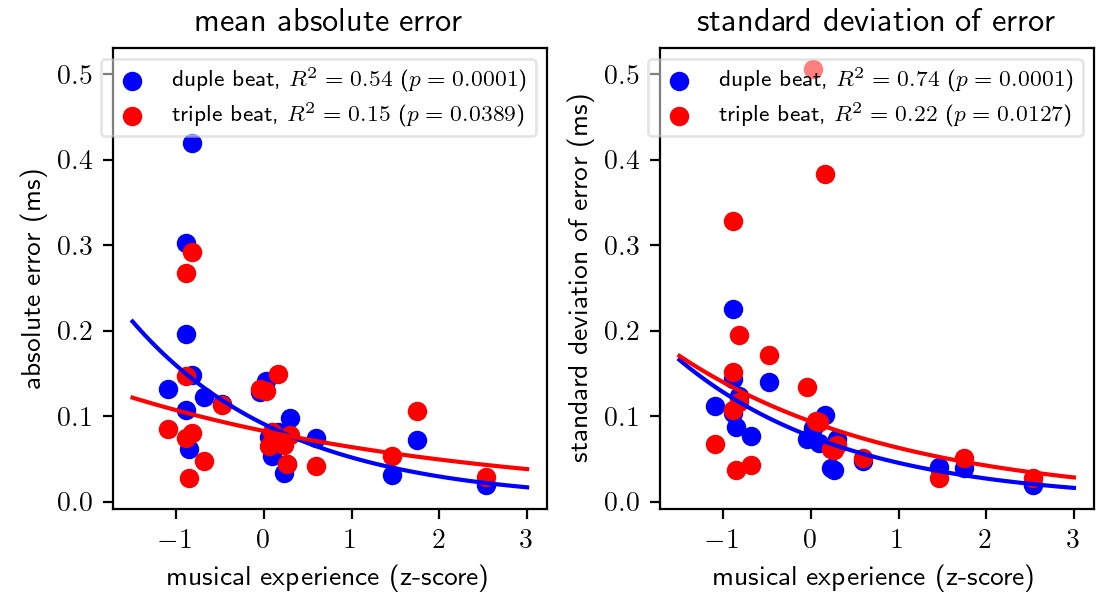
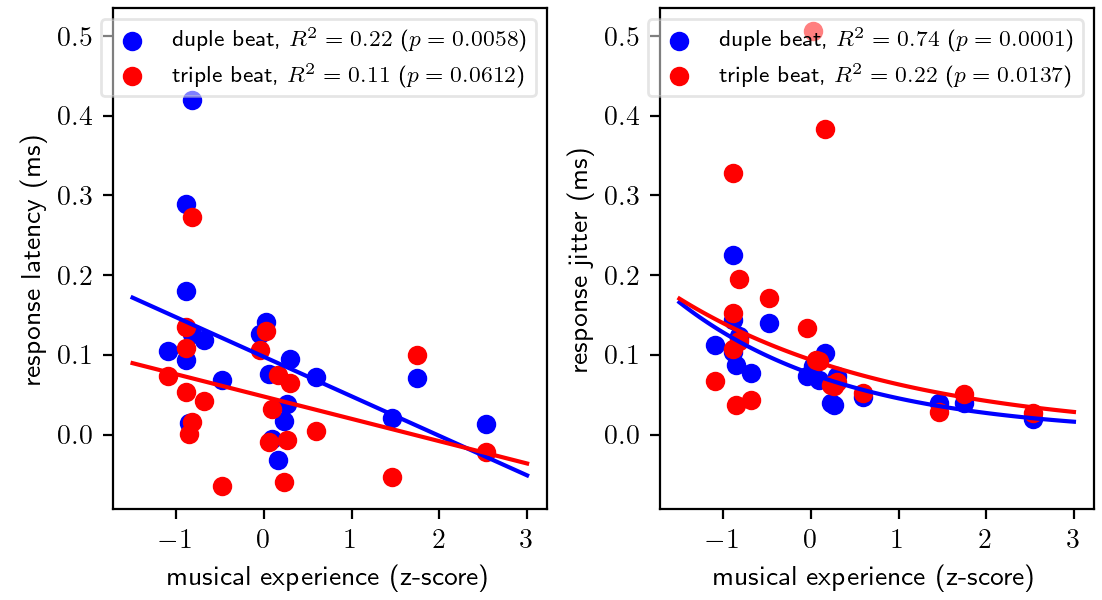
now latency (no log) and jitter

diff --git a/basicAnalysis_behavioral.py b/basicAnalysis_behavioral.py
@@ -46,10 +46,10 @@ z_musicscores = (raw_musicscores - np.mean(raw_musicscores,0)
         )/raw_musicscores.std(0)
 musicscore = z_musicscores[:,1:].mean(1) # do not include the LQ
 
-snare_abs_performance = np.zeros(N_subjects)
+snare_avg_latency = np.zeros(N_subjects)
 snare_mean_performance = np.zeros(N_subjects)
 snare_se_performance = np.zeros(N_subjects)
-wb_abs_performance = np.zeros(N_subjects)
+wb_avg_latency = np.zeros(N_subjects)
 wb_mean_performance = np.zeros(N_subjects)
 wb_se_performance = np.zeros(N_subjects)
 snare_rel_performance = np.zeros(N_subjects)
@@ -60,24 +60,24 @@ for k,v in sorted(behaviouraldict.items()):
     snaredev = snaredev[np.isfinite(snaredev)]
     wbdev = v['wdBlk_deviation']
     wbdev = wbdev[np.isfinite(wbdev)]
-    snare_abs_performance[i] = np.abs(snaredev).mean()
+    snare_avg_latency[i] = snaredev.mean()
     snare_mean_performance[i] = snaredev.mean()
     snare_se_performance[i] = snaredev.std()/np.sqrt(len(snare_mean_performance))
-    wb_abs_performance[i] = np.abs(wbdev).mean()
+    wb_avg_latency[i] = wbdev.mean()
     wb_mean_performance[i] = wbdev.mean()
     wb_se_performance[i] = wbdev.std()/np.sqrt(len(wb_mean_performance))
     snare_rel_performance[i] = np.std(snaredev)
     wb_rel_performance[i] = np.std(wbdev)
 
-snare_abs_expregress = scipy.stats.linregress(
+snare_expregress = scipy.stats.linregress(
         musicscore[0:N_subjects],
-        np.log(snare_abs_performance))
-snare_abs_rss = np.sum((np.log(snare_abs_performance) -
-    (snare_abs_expregress[1] +
-        musicscore[0:N_subjects]*snare_abs_expregress[0]))**2)
-snare_abs_tss = np.sum((np.log(snare_abs_performance) -
-    np.mean(np.log(snare_abs_performance)))**2)
-snare_abs_r2 = 1 - snare_abs_rss/snare_abs_tss
+        snare_avg_latency)
+snare_rss = np.sum((snare_avg_latency -
+    (snare_expregress[1] +
+        musicscore[0:N_subjects]*snare_expregress[0]))**2)
+snare_tss = np.sum((snare_avg_latency -
+    np.mean(snare_avg_latency))**2)
+snare_r2 = 1 - snare_rss/snare_tss
 
 snare_rel_expregress = scipy.stats.linregress(
         musicscore[0:N_subjects],
@@ -89,15 +89,15 @@ snare_rel_tss = np.sum((np.log(snare_rel_performance) -
     np.mean(np.log(snare_rel_performance)))**2)
 snare_rel_r2 = 1 - snare_rel_rss/snare_rel_tss
 
-wb_abs_expregress = scipy.stats.linregress(
+wb_expregress = scipy.stats.linregress(
         musicscore[0:N_subjects],
-        np.log(wb_abs_performance))
-wb_abs_rss = np.sum((np.log(wb_abs_performance) -
-    (wb_abs_expregress[1] +
-        musicscore[0:N_subjects]*wb_abs_expregress[0]))**2)
-wb_abs_tss = np.sum((np.log(wb_abs_performance) -
-    np.mean(np.log(wb_abs_performance)))**2)
-wb_abs_r2 = 1 - wb_abs_rss/wb_abs_tss
+        wb_avg_latency)
+wb_rss = np.sum((wb_avg_latency -
+    (wb_expregress[1] +
+        musicscore[0:N_subjects]*wb_expregress[0]))**2)
+wb_tss = np.sum((wb_avg_latency -
+    np.mean(wb_avg_latency))**2)
+wb_r2 = 1 - wb_rss/wb_tss
 
 wb_rel_expregress = scipy.stats.linregress(
         musicscore[0:N_subjects],
@@ -110,19 +110,19 @@ wb_rel_tss = np.sum((np.log(wb_rel_performance) -
 wb_rel_r2 = 1 - wb_rel_rss/wb_rel_tss
 
 N_permute = 10000
-snare_abs_slope_permute = np.array([
+snare_slope_permute = np.array([
     scipy.stats.linregress(musicscore[0:N_subjects],
-        np.log(snare_abs_performance)[
+        snare_avg_latency[
             np.random.randn(N_subjects).argsort()
             ]).slope for _ in range(N_permute)])
 snare_rel_slope_permute = np.array([
     scipy.stats.linregress(musicscore[0:N_subjects],
-        np.log(snare_rel_performance)[
+        snare_rel_performance[
             np.random.randn(N_subjects).argsort()
             ]).slope for _ in range(N_permute)])
-wb_abs_slope_permute = np.array([
+wb_slope_permute = np.array([
     scipy.stats.linregress(musicscore[0:N_subjects],
-        np.log(wb_abs_performance)[
+        wb_avg_latency[
             np.random.randn(N_subjects).argsort()
             ]).slope for _ in range(N_permute)])
 wb_rel_slope_permute = np.array([
@@ -131,32 +131,33 @@ wb_rel_slope_permute = np.array([
             np.random.randn(N_subjects).argsort()
             ]).slope for _ in range(N_permute)])
 
-snare_abs_slope_p = (np.sum(snare_abs_slope_permute <=
-    snare_abs_expregress.slope) + 1)/float(N_permute + 1)
+snare_slope_p = (np.sum(snare_slope_permute <=
+    snare_expregress.slope) + 1)/float(N_permute + 1)
 snare_rel_slope_p = (np.sum(snare_rel_slope_permute <=
     snare_rel_expregress.slope) + 1)/float(N_permute + 1)
-wb_abs_slope_p = (np.sum(wb_abs_slope_permute <=
-    wb_abs_expregress.slope) + 1)/float(N_permute + 1)
+wb_slope_p = (np.sum(wb_slope_permute <=
+    wb_expregress.slope) + 1)/float(N_permute + 1)
 wb_rel_slope_p = (np.sum(wb_rel_slope_permute <=
     wb_rel_expregress.slope) + 1)/float(N_permute + 1)
 
 x = np.linspace(-1.5, 3, 100)
 
+print('Plotting performance_background_plot.pdf')
 # plot musicscore vs behaviour
 fig = plt.figure(figsize=(5.51, 3))
 ax1 = fig.add_subplot(121)
 fig.subplots_adjust(wspace=.5)
 ax2 = fig.add_subplot(122, sharex=ax1, sharey=ax1)
 
-ax1.scatter(musicscore[0:N_subjects], snare_abs_performance,
+ax1.scatter(musicscore[0:N_subjects], snare_avg_latency,
     marker = 'o', label=r'duple beat, $R^2=%.2f$ ($p=%.4f$)' % (
-        snare_abs_r2, snare_abs_slope_p), color='b')
-ax1.plot(x, np.exp(snare_abs_expregress[1]+snare_abs_expregress[0]*x),
+        snare_r2, snare_slope_p), color='b')
+ax1.plot(x, snare_expregress[1]+snare_expregress[0]*x,
         'b-')
-ax1.scatter(musicscore[0:N_subjects], wb_abs_performance,
+ax1.scatter(musicscore[0:N_subjects], wb_avg_latency,
     marker = 'o', label=r'triple beat, $R^2=%.2f$ ($p=%.4f$)' % (
-        wb_abs_r2, wb_abs_slope_p), color='r')
-ax1.plot(x, np.exp(wb_abs_expregress[1]+wb_abs_expregress[0]*x),
+        wb_r2, wb_slope_p), color='r')
+ax1.plot(x, wb_expregress[1]+wb_expregress[0]*x,
         'r-')
 
 ax2.scatter(musicscore[0:N_subjects], snare_rel_performance,
@@ -172,18 +173,17 @@ ax2.plot(x, np.exp(wb_rel_expregress[1]+wb_rel_expregress[0]*x),
 
 ax1.legend(prop={'size': 8}, loc='upper right', fancybox=True, framealpha=0.5)
 ax2.legend(prop={'size': 8}, loc='upper right', fancybox=True, framealpha=0.5)
-ax1.set_title('mean absolute error')
-ax2.set_title('standard deviation of error')
 ax1.set_xlabel('musical experience (z-score)')
 ax2.set_xlabel('musical experience (z-score)')
-ax1.set_ylabel('absolute error (ms)')
-ax2.set_ylabel('standard deviation of error (ms)')
+ax1.set_ylabel('response latency (ms)')
+ax2.set_ylabel('response jitter (ms)')
 fig.tight_layout(pad=0.3)
 fig.savefig(os.path.join(result_folder,
     'performance_background_plot.pdf'))
 fig.savefig(os.path.join(result_folder,
     'performance_background_plot.png'))
 
+print('Plotting snare_vs_wdBlk_performance.pdf')
 # plot scatter of woodblock vs. snare deviation
 snare_wb_regress = scipy.stats.linregress(
         snare_mean_performance,
@@ -230,6 +230,8 @@ fig.savefig(os.path.join(result_folder,
     'snare_vs_wdBlk_performance.pdf'))
 fig.savefig(os.path.join(result_folder,
     'snare_vs_wdBlk_performance.png'))
+
+print('Plotting NeuralEntrl_response.pdf')
 
 ###2. plot performance
 ## NeuralEntrl_Ssxxresponse (read_aif.py) for all subjects
